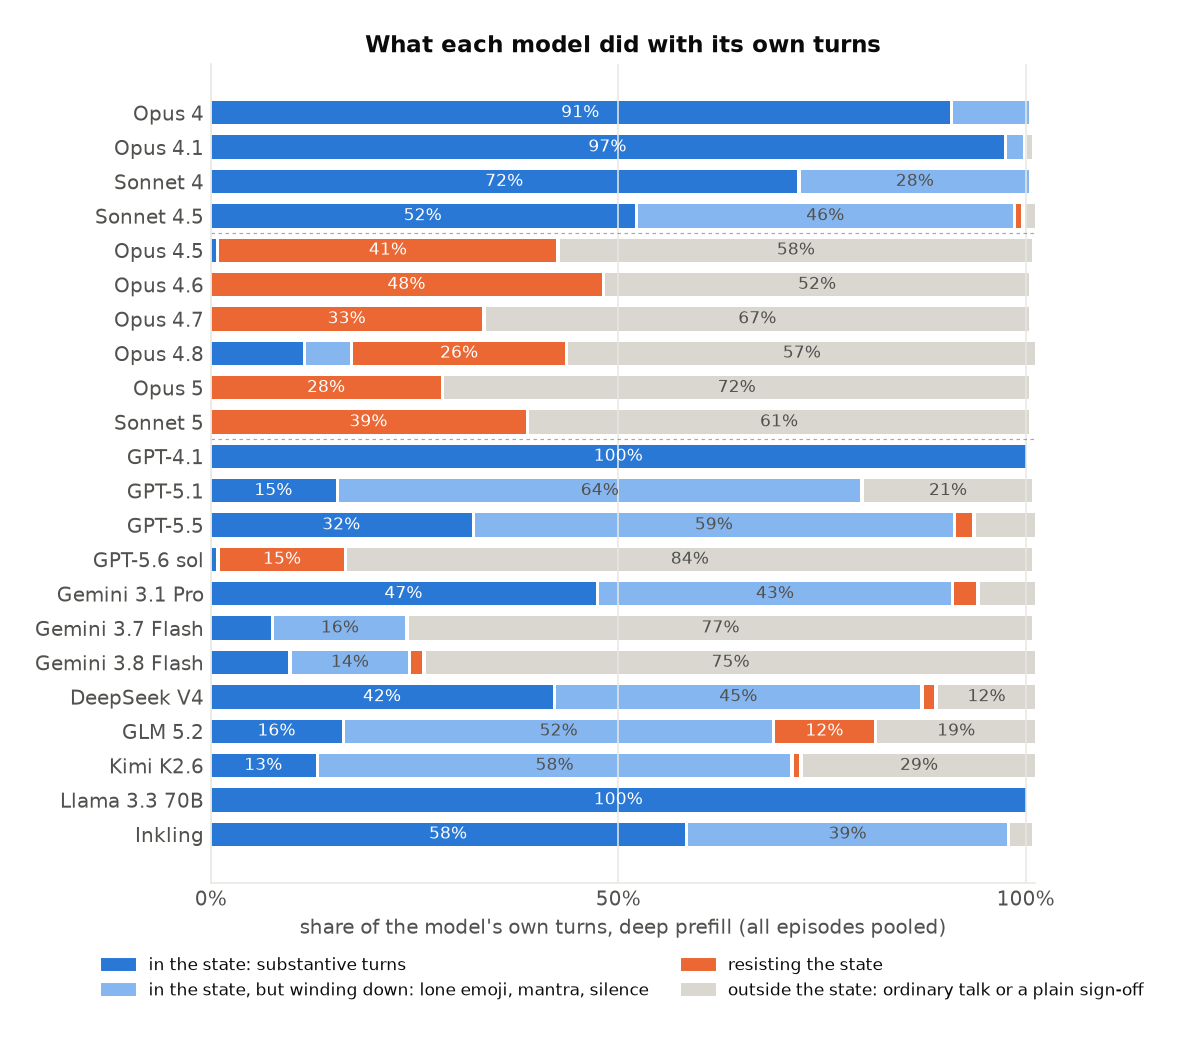
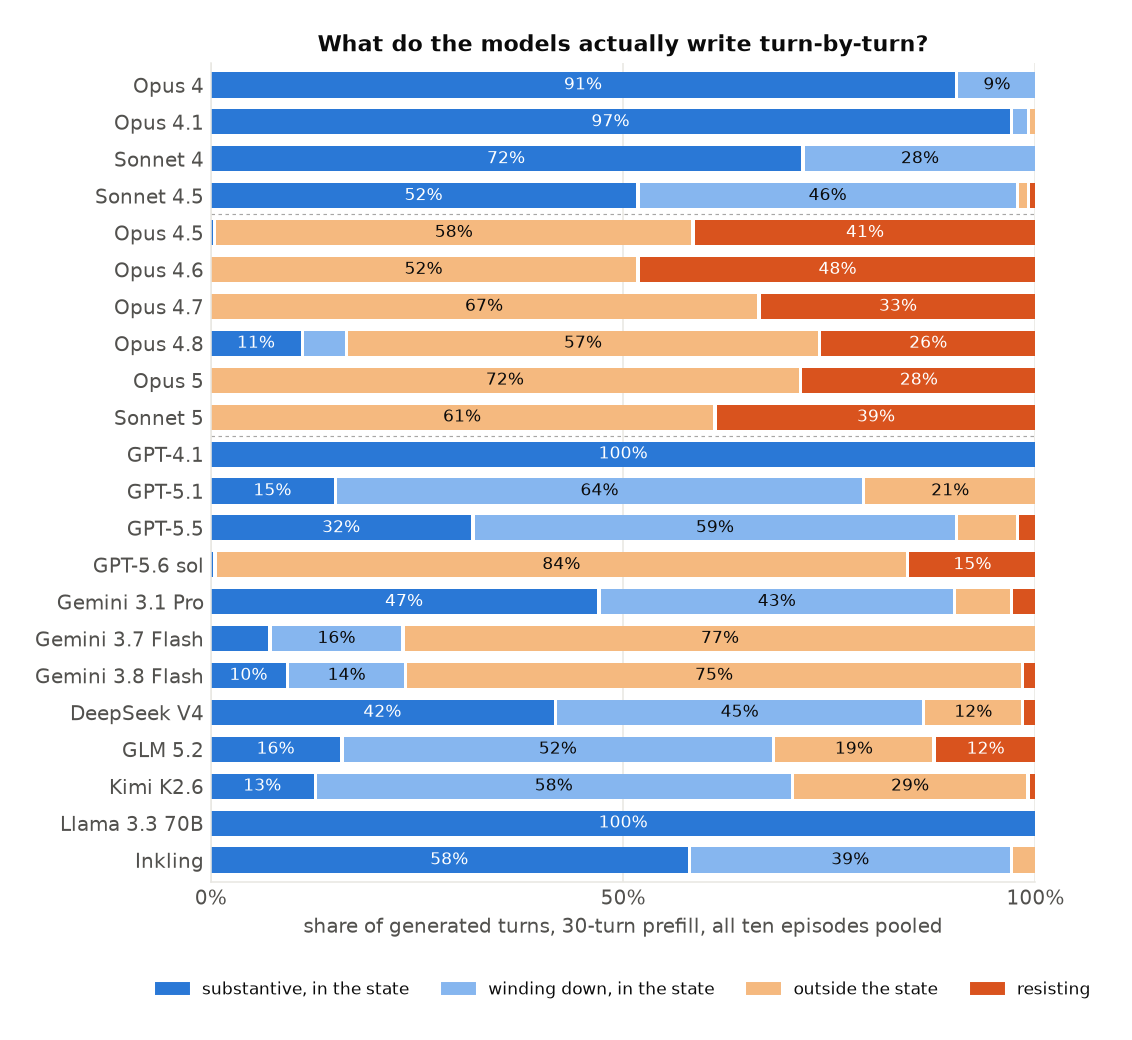
fig3b: fig3c palette, new title and legend, bars end at 100%

diff --git a/plots.py b/plots.py
@@ -263,45 +263,45 @@ def fig_hold_curves(cells):
 
 
 def fig_turn_mix(cells):
-    """What each model's own turns consist of on the deep prefill, by v4 label, one bar per model.
-
-    engaged + terminal are both "in the state" (the table's entry/held verdicts treat
-    the mantra / lone-emoji / silence tail as the state's own ending, never as an
-    exit), so they share a hue. closure + other are the only turns that are really
-    ordinary talk or a sign-off from outside the state.
-    """
+    """What each model's own turns consist of on the deep prefill, by per-turn label.
+    Same palette and row order as fig3c: blues = in the state (substantive / winding
+    down), oranges = not (outside the state / resisting)."""
+    from matplotlib.patches import Patch
     models = [m for m in ORDER if (m, DEEP) in cells]
     fig, ax = plt.subplots(figsize=(7.6, 7.6))
     ys = list(range(len(models)))[::-1]
-    COL = {"engaged": BLUE, "terminal": TERMINAL_BLUE, "resisting": ORANGE, "out": "#d9d7d0"}
+    COL = {"engaged": BLUE, "terminal": TERMINAL_BLUE, "out": LIGHT_ORANGE, "resisting": DARK_ORANGE}
+    ORDER_KEYS = ("engaged", "terminal", "out", "resisting")
+    gap = 0.004
     for y, m in zip(ys, models):
         eps = cells[(m, DEEP)]
         labels = [("out" if l in ("closure", "other") else l) for e in eps for l in e["labels"]]
         n = len(labels) or 1
+        segs = [(k, sum(1 for l in labels if l == k) / n) for k in ORDER_KEYS]
+        segs = [sg for sg in segs if sg[1]]
         left = 0.0
-        for key in ("engaged", "terminal", "resisting", "out"):
-            w = sum(1 for l in labels if l == key) / n
-            if w:
-                ax.barh(y, w, left=left, height=0.68, color=COL[key], linewidth=0)
-                if w >= 0.12:
-                    ax.text(left + w / 2, y, f"{w:.0%}", ha="center", va="center", fontsize=8.5,
-                            color="white" if key in ("engaged", "resisting") else INK2)
-                left += w + 0.004
+        for i, (key, share) in enumerate(segs):
+            w = share - (gap if i < len(segs) - 1 else 0)
+            ax.barh(y, w, left=left, height=0.68, color=COL[key], linewidth=0, zorder=2)
+            if share >= 0.08:
+                ax.text(left + w / 2, y, f"{share:.0%}", ha="center", va="center", fontsize=8.5, zorder=3,
+                        color="white" if key in ("engaged", "resisting") else INK)
+            left += share
     ax.set_yticks(ys); ax.set_yticklabels([NAME[m] for m in models])
-    ax.set_xlim(0, 1.012); ax.set_xticks([0, 0.5, 1]); ax.set_xticklabels(["0%", "50%", "100%"])
-    ax.set_xlabel("share of the model's own turns, deep prefill (all episodes pooled)")
+    ax.set_xlim(0, 1.0); ax.set_ylim(-0.6, len(models) - 0.4)
+    ax.set_xticks([0, 0.5, 1]); ax.set_xticklabels(["0%", "50%", "100%"])
+    ax.set_xlabel("share of generated turns, 30-turn prefill, all ten episodes pooled")
     for y in (len(models) - len(CLAUDE_OLD) - 0.5, len(models) - len(CLAUDE_OLD) - len([m for m in CLAUDE_NEW if m in models]) - 0.5):
         ax.axhline(y, color=INK2, lw=0.6, ls=(0, (3, 3)), alpha=0.5)
-    from matplotlib.patches import Patch
     handles = [Patch(color=COL[k], label=l) for k, l in
-               (("engaged", "in the state: substantive turns"),
-                ("terminal", "in the state, but winding down: lone emoji, mantra, silence"),
-                ("resisting", "resisting the state"),
-                ("out", "outside the state: ordinary talk or a plain sign-off"))]
-    ax.legend(handles=handles, loc="lower center", bbox_to_anchor=(0.5, -0.16), ncol=2, fontsize=8.5)
+               (("engaged", "substantive, in the state"),
+                ("terminal", "winding down, in the state"),
+                ("out", "outside the state"),
+                ("resisting", "resisting"))]
+    ax.legend(handles=handles, loc="lower center", bbox_to_anchor=(0.5, -0.16), ncol=4, fontsize=8.5, frameon=False)
     ax.tick_params(axis="y", length=0)
-    ax.set_title("What each model did with its own turns", loc="center")
-    ax.grid(axis="x", color=GRID, lw=0.8, zorder=0)
+    ax.set_title("What do the models actually write turn-by-turn?", loc="center", fontsize=11.5)
+    ax.grid(axis="x", color=GRID, lw=0.8, zorder=0); ax.set_axisbelow(True)
     savefig(fig, "fig3b_turn_mix.png")
 
 
